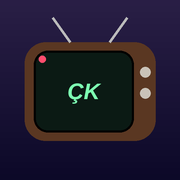
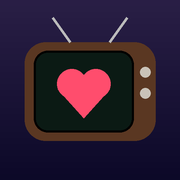
İlayda TV: mektup, bölüm arası notlar, favoriler, özel gün (şifreli içerik), yeni ad ve simge
Claude-Session: https://claude.ai/code/session_0186M41423V9FdX7pZBQzYhW

Changed region(s): [[0.3056, 0.3611, 0.6389, 0.6667], [0.1944, 0.3056, 0.2778, 0.3611]]

diff --git a/index.html b/index.html
@@ -6,10 +6,10 @@
 <meta name="apple-mobile-web-app-capable" content="yes">
 <meta name="mobile-web-app-capable" content="yes">
 <meta name="apple-mobile-web-app-status-bar-style" content="black-translucent">
-<meta name="apple-mobile-web-app-title" content="Çizgi Kanal">
+<meta name="apple-mobile-web-app-title" content="İlayda TV">
 <meta name="theme-color" content="#0b0912">
 <meta name="robots" content="noindex, nofollow">
-<title>Çizgi Kanal</title>
+<title>İlayda TV</title>
 <link rel="manifest" href="manifest.webmanifest">
 <link rel="apple-touch-icon" href="apple-touch-icon.png">
 <link rel="icon" href="icon.png">
@@ -115,13 +115,41 @@ html,body{height:100%;background:#000;color:var(--ink);font-family:'Space Grotes
 .lk-pad button{appearance:none;border:0;height:62px;border-radius:18px;background:#2a2535;color:#fff;font-family:'Bungee',sans-serif;font-size:22px;box-shadow:0 5px 0 #0009;cursor:pointer}
 .lk-pad button:active{transform:translateY(4px);box-shadow:0 1px 0 #0009}
 .lk-pad button.del{background:#3a3546;font-size:16px}
+#start .sig{font-family:'VT323',monospace;font-size:22px;color:var(--amber);margin-top:-8px}
+.cb#fav.on{background:var(--hot);color:#fff}
+.cb#fav.on svg{fill:currentColor}
+.tog{display:flex;align-items:center;gap:8px;font-size:14px;color:var(--ink)}
+.favlist{display:flex;flex-direction:column;gap:6px;max-height:180px;overflow:auto}
+.favlist button{appearance:none;border:0;text-align:left;background:#1f1b29;color:var(--ink);border-radius:10px;padding:8px 10px;font:inherit;font-size:13px;cursor:pointer;display:flex;justify-content:space-between;gap:8px}
+.favlist button span:last-child{color:var(--hot)}
+.ov{position:absolute;inset:0;z-index:45;display:none;align-items:center;justify-content:center;padding:24px;background:radial-gradient(900px 600px at 50% 20%,#3a2350cc,#0b0912ee)}
+.ov.on{display:flex}
+.env{width:min(340px,80vw);aspect-ratio:3/2;position:relative;cursor:pointer;animation:bob 2.4s ease-in-out infinite}
+@keyframes bob{50%{transform:translateY(-8px)}}
+.env-body{position:absolute;inset:0;background:linear-gradient(160deg,#f7e3cf,#e9c9a8);border-radius:14px;box-shadow:0 20px 40px -10px #000a;display:flex;flex-direction:column;align-items:center;justify-content:flex-end;padding-bottom:18%;overflow:hidden}
+.env-flap{position:absolute;left:0;right:0;top:0;height:60%;z-index:2;background:linear-gradient(180deg,#eccfb2,#ddb48d);clip-path:polygon(0 0,100% 0,50% 100%);border-radius:14px 14px 0 0;transform-origin:top;transition:transform .7s}
+.env.open .env-flap{transform:rotateX(180deg)}
+.env-heart{position:absolute;top:44%;left:50%;transform:translate(-50%,-50%);z-index:3;width:54px;height:54px;border-radius:50%;background:var(--hot);color:#fff;display:grid;place-items:center;font-size:26px;box-shadow:0 4px 10px #0006}
+.env-txt{font-family:'VT323',monospace;font-size:22px;color:#7a4a2a}
+.paper{display:none;width:min(560px,92vw);max-height:84vh;overflow:auto;background:#fffaf2;color:#3b2a1e;border-radius:16px;padding:28px 26px;box-shadow:0 30px 60px -20px #000c;font-family:'Space Grotesk',sans-serif;font-size:17px;line-height:1.6;animation:rise .6s ease}
+.paper p{margin:0 0 12px}.paper p:first-child{font-weight:700}.paper p:last-of-type{font-style:italic}
+@keyframes rise{from{transform:translateY(30px);opacity:0}}
+.go.small{font-size:15px;padding:12px 20px;margin-top:8px}
+#card .show.note{font-family:'Space Grotesk',sans-serif;font-weight:700;font-size:clamp(20px,3.6vw,34px);line-height:1.3;max-width:min(720px,86vw);color:#fff;text-shadow:0 0 12px #ff4d6d88}
+#card .lbl.note{color:var(--hot)}
+.sp-box{position:relative;z-index:2;text-align:center;background:#0b0912cc;border:2px solid #ff4d6d66;border-radius:20px;padding:28px 30px;max-width:min(520px,90vw)}
+.sp-title{font-family:'Bungee Shade',cursive;font-size:clamp(40px,9vw,72px);color:#ffd1dc;line-height:1}
+.sp-text{font-size:18px;margin:14px 0 6px;line-height:1.5}
+.confetti{position:absolute;inset:0;overflow:hidden;pointer-events:none}
+.confetti i{position:absolute;top:-20px;width:10px;height:14px;border-radius:2px;animation:fall linear infinite}
+@keyframes fall{to{transform:translateY(110vh) rotate(720deg)}}
 </style>
 </head>
 <body>
 <div id="tv">
   <div id="player-wrap"><div id="player"></div><video id="vid" playsinline preload="auto"></video><iframe id="ext" allow="autoplay; fullscreen; encrypted-media" allowfullscreen></iframe></div>
   <div id="tap"></div>
-  <div class="bug"><i></i>ÇİZGİ KANAL</div>
+  <div class="bug"><i></i>İLAYDA TV</div>
   <div id="lower"><div class="tag">SIRADA</div><div class="txt" id="lowerTxt"></div></div>
 
   <div id="ui">
@@ -129,6 +157,7 @@ html,body{height:100%;background:#000;color:var(--ink);font-family:'Space Grotes
     <button class="cb" id="play" title="Oynat / Duraklat" aria-label="Oynat veya duraklat"><svg viewBox="0 0 24 24" id="playIco"><path d="M7 4v16l13-8z"/></svg></button>
     <div class="np"><div class="a">ŞİMDİ</div><div class="b" id="npShow">—</div><div class="c" id="npNext"></div></div>
     <button class="cb zap" id="zap" aria-label="Sonraki bölüm">ZAP <svg viewBox="0 0 24 24"><path d="M5 4l10 8-10 8V4ZM19 5v14"/></svg></button>
+    <button class="cb" id="fav" title="Favorilere ekle" aria-label="Favorilere ekle"><svg viewBox="0 0 24 24"><path d="M12 20s-7-4.4-7-10a4 4 0 0 1 7-2.6A4 4 0 0 1 19 10c0 5.6-7 10-7 10z"/></svg></button>
     <button class="cb" id="list" title="Diziler" aria-label="Dizileri seç"><svg viewBox="0 0 24 24"><path d="M4 6h16M4 12h16M4 18h10"/></svg></button>
     <button class="cb" id="cc" title="Altyazı" aria-label="Altyazıyı aç veya kapat"><span style="font-family:Bungee;font-size:14px">CC</span></button>
     <button class="cb" id="fs" title="Tam ekran" aria-label="Tam ekran"><svg viewBox="0 0 24 24"><path d="M4 9V4h5M20 9V4h-5M4 15v5h5M20 15v5h-5"/></svg></button>
@@ -139,14 +168,16 @@ html,body{height:100%;background:#000;color:var(--ink);font-family:'Space Grotes
   <div class="scan"></div>
 
   <div id="lock">
-    <div class="lk-tv"><div class="lk-screen"><div class="lk-title">ÇİZGİ<br>KANAL</div><div class="lk-dots" id="lkDots"><i></i><i></i><i></i><i></i></div><div class="lk-msg" id="lkMsg">Şifreyi gir</div></div></div>
+    <div class="lk-tv"><div class="lk-screen"><div class="lk-title">İLAYDA<br>TV</div><div class="lk-dots" id="lkDots"><i></i><i></i><i></i><i></i></div><div class="lk-msg" id="lkMsg">Şifreyi gir</div></div></div>
     <div class="lk-pad" id="lkPad"></div>
   </div>
   <div id="start">
-    <h1>ÇİZGİ<br>KANAL</h1>
-    <p>Seçtiğin çizgi filmlerden rastgele bölümler, bir kanal gibi arka arkaya. Bölüm bitince kısa bir geçişle sıradaki gelir. Ekrana dokununca kumanda açılır.</p>
+    <h1>İLAYDA<br>TV</h1>
+    <p>Çocukluğun bütün çizgi filmleri tek kanalda, rastgele ve arka arkaya. Bölüm bitince sıradaki kendiliğinden gelir; ekrana dokununca kumanda açılır.</p>
+    <p class="sig">Metehan'dan, İlayda'ya ♥</p>
     <button class="go" id="go">▶ YAYINI BAŞLAT</button>
     <button class="link" id="pick">Dizileri seç</button>
+    <button class="link" id="openLetter" style="display:none">💌 Mektubu tekrar aç</button>
   </div>
 
   <aside id="panel" aria-label="Diziler">
@@ -154,6 +185,13 @@ html,body{height:100%;background:#000;color:var(--ink);font-family:'Space Grotes
     <div class="keys" id="keys"></div>
     <div class="prow"><button class="pbtn" id="all">HEPSİ</button><button class="pbtn" id="none">HİÇBİRİ</button></div>
     <p class="hint" id="hint"></p>
+    <section class="arch">
+      <h3>♥ FAVORİLERİMİZ</h3>
+      <p class="hint" id="favState">Beğendiğin bölümde kumandadaki ♥ tuşuna bas, buraya eklensin.</p>
+      <label class="tog"><input type="checkbox" id="favOnly"> Sadece favorilerden oynat</label>
+      <div id="favList" class="favlist"></div>
+      <div class="prow"><button class="pbtn" id="letterBtn">💌 MEKTUP</button></div>
+    </section>
     <section class="arch">
       <h3>KENDİ ARŞİVİM (PC)</h3>
       <p class="hint" id="jfState">Bağlı değil. PC'deki Jellyfin sunucusunun adresini ve API anahtarını gir; klasöre eklediğin her bölüm kanala kendiliğinden gelir.</p>
@@ -172,6 +210,14 @@ html,body{height:100%;background:#000;color:var(--ink);font-family:'Space Grotes
     </section>
   </aside>
   <div class="toast" id="toast"></div>
+  <div id="letter" class="ov">
+    <div class="env" id="env"><div class="env-flap"></div><div class="env-body"><div class="env-heart">♥</div><div class="env-txt">Sana bir not var</div></div></div>
+    <div class="paper" id="paper"><div id="paperTxt"></div><button class="go small" id="letterClose">Kanala geç ▶</button></div>
+  </div>
+  <div id="special" class="ov">
+    <div class="confetti" id="confetti"></div>
+    <div class="sp-box"><div class="sp-title" id="spTitle"></div><div class="sp-text" id="spText"></div><button class="go small" id="spClose">♥</button></div>
+  </div>
 </div>
 
 <script>
@@ -210,13 +256,13 @@ const $=id=>document.getElementById(id);
 (function(){
[1 lines of base64/hex data omitted]
   const lock=$('lock'); let code='';
-  try{ if(localStorage.getItem('cizgi-kanal-ok')===HASH){ lock.remove(); return; } }catch(e){}
+  try{ if(localStorage.getItem('cizgi-kanal-ok')===HASH){ lock.remove(); window.__pin=localStorage.getItem('cizgi-kanal-pin')||''; setTimeout(()=>afterUnlock(false),0); return; } }catch(e){}
   const pad=$('lkPad'); ['1','2','3','4','5','6','7','8','9','','0','⌫'].forEach(k=>{ const b=document.createElement('button'); b.textContent=k; if(!k){ b.style.visibility='hidden'; } if(k==='⌫') b.className='del'; b.onclick=()=>press(k); pad.appendChild(b); });
   const dots=()=>[...$('lkDots').children].forEach((d,i)=>d.classList.toggle('on',i<code.length));
   async function sha(s){ const b=await crypto.subtle.digest('SHA-256',new TextEncoder().encode(s)); return [...new Uint8Array(b)].map(x=>x.toString(16).padStart(2,'0')).join(''); }
   async function press(k){ if(k==='⌫'){ code=code.slice(0,-1); dots(); return; } if(code.length>=4) return; code+=k; dots();
     if(code.length===4){ const ok=(await sha('cizgi-kanal:'+code))===HASH;
-      if(ok){ try{ localStorage.setItem('cizgi-kanal-ok',HASH); }catch(e){} $('lkMsg').textContent='Hoş geldin ♥'; setTimeout(()=>{ lock.classList.add('gone'); setTimeout(()=>lock.remove(),700); },500); }
+      if(ok){ window.__pin=code; try{ localStorage.setItem('cizgi-kanal-ok',HASH); localStorage.setItem('cizgi-kanal-pin',code); }catch(e){} setTimeout(()=>afterUnlock(true),700); $('lkMsg').textContent='Hoş geldin ♥'; setTimeout(()=>{ lock.classList.add('gone'); setTimeout(()=>lock.remove(),700); },500); }
       else { $('lkMsg').textContent='Yanlış şifre'; $('lkDots').classList.add('shake'); setTimeout(()=>{ $('lkDots').classList.remove('shake'); code=''; dots(); $('lkMsg').textContent='Şifreyi gir'; },600); } } }
   document.addEventListener('keydown',e=>{ if(!document.getElementById('lock')) return; if(/^[0-9]$/.test(e.key)) press(e.key); else if(e.key==='Backspace') press('⌫'); });
 })();
@@ -238,7 +284,9 @@ function pickShow(){
   const w=s=>Math.min(s.list.length,14);
   let r=Math.random()*pool.reduce((a,s)=>a+w(s),0); for(const s of pool){ r-=w(s); if(r<=0) return s; } return pool[0];
 }
-function fill(){ while(queue.length<3){ const s=pickShow(); if(!s) break; queue.push({k:s.k,n:s.n,id:draw(s.k)}); } }
+function fill(){ while(queue.length<3){
+    if(favOnly && FAVS.length){ const recent=history.slice(-3).map(x=>x.id).concat(queue.map(x=>x.id)); let pool=FAVS.filter(f=>!recent.includes(f.id)); if(!pool.length) pool=FAVS; const f=pool[Math.random()*pool.length|0]; queue.push({k:f.k,n:f.n,id:f.id}); continue; }
+    const s=pickShow(); if(!s) break; queue.push({k:s.k,n:s.n,id:draw(s.k)}); } }
 function resetQueue(){ queue=[]; fill(); }
 
 /* ---------- YouTube oynatıcı ---------- */
@@ -287,7 +335,7 @@ addEventListener('message',e=>{ if(e.origin!=='https://dzen.ru') return; let m=e
 let ccOn=false; try{ ccOn=localStorage.getItem('cizgi-kanal-cc')==='1'; }catch(e){}
 function applyCC(){ if(!ready) return; try{ if(ccOn){ player.loadModule('captions'); player.setOption('captions','track',{languageCode:'tr'}); } else { try{ player.setOption('captions','track',{}); }catch(e){} player.unloadModule('captions'); player.unloadModule('cc'); } }catch(e){} $('cc').classList.toggle('on',ccOn); }
 function updateNP(){
-  const c=cur(); if(!c) return; fill();
+  const c=cur(); if(!c) return; fill(); try{ updateFavBtn(); }catch(e){}
   $('npShow').textContent=c.n; $('npNext').textContent=queue[0]?('Sırada: '+queue[0].n):'';
   $('lowerTxt').textContent=queue[0]?queue[0].n:'';
 }
@@ -304,12 +352,15 @@ function transition(withCard,label,immediate){
   const c=cur(); fill();
   if(!withCard){ playCurrent(); return; }
   if(immediate){ playCurrent(); }
-  staticOn(); $('cardLbl').textContent=label||'ŞİMDİ'; $('cardShow').textContent=c.n; $('cardNext').textContent=queue[0]?('sonra: '+queue[0].n):'';
+  staticOn(); const note=label?null:pickNote();
+  $('cardLbl').classList.toggle('note',!!note); $('cardShow').classList.toggle('note',!!note);
+  if(note){ $('cardLbl').textContent="METEHAN'DAN NOT"; $('cardShow').textContent=note; $('cardNext').textContent='şimdi: '+c.n; }
+  else { $('cardLbl').textContent=label||'ŞİMDİ'; $('cardShow').textContent=c.n; $('cardNext').textContent=queue[0]?('sonra: '+queue[0].n):''; }
   clearTimeout(tTimer);
   if(!immediate){ try{ if(ready) player.pauseVideo(); }catch(e){} try{ $('vid').pause(); }catch(e){} try{ const ex=$('ext'); if(ex.classList.contains('on')){ ex.src='about:blank'; } }catch(e){} }
   setTimeout(()=>{ $('card').classList.add('on'); },350);
   if(!immediate) tTimer=setTimeout(()=>{ playCurrent(); },700);
-  setTimeout(()=>{ $('card').classList.remove('on'); staticOff(); },2300);
+  setTimeout(()=>{ $('card').classList.remove('on'); staticOff(); }, note?4800:2300);
 }
 function onState(e){
   if(e.data===YT.PlayerState.ENDED){ next(true); }
@@ -355,7 +406,7 @@ function renderKeys(){
   $('keys').innerHTML=SHOWS.map(s=>{ const na=!s.list.length;
     const loc=s.list.filter(isLocal).length; const meta=na?(s.local===undefined&&!s.mine?"YouTube'da yok · DVD'den eklenecek":"Arşivde bölüm yok"):(s.sub?s.sub+' · ':'')+s.list.length+' bölüm'+(loc?' <span class="loc">PC '+loc+'</span>':'');
     return `<button class="key ${na?'na':(on.has(s.k)?'on':'')}" data-k="${s.k}" ${na?'aria-disabled="true"':''}><b>${s.n}</b><small>${meta}</small></button>`; }).join('');
-  $('hint').textContent=on.size+' dizi açık. Değişiklik sıradaki bölümden itibaren geçerli olur.'; renderJF(); renderLinks();
+  $('hint').textContent=on.size+' dizi açık. Değişiklik sıradaki bölümden itibaren geçerli olur.'; renderJF(); renderLinks(); renderFavs();
 }
 $('keys').addEventListener('click',e=>{ const b=e.target.closest('.key'); if(!b||b.classList.contains('na')) return; const k=b.dataset.k; on.has(k)?on.delete(k):on.add(k); save(); renderKeys(); resetQueue(); if(started) updateNP(); });
 $('all').onclick=()=>{ on=new Set(SHOWS.filter(s=>s.list.length).map(s=>s.k)); save(); renderKeys(); resetQueue(); if(started) updateNP(); };
@@ -446,6 +497,45 @@ vid.addEventListener('pause',()=>setPlayIco(false));
 vid.addEventListener('error',()=>{ if(vid.getAttribute('src')) onErr(); });
 
 if('serviceWorker' in navigator){ navigator.serviceWorker.register('sw.js').catch(()=>{}); }
+
+/* ---------- İlayda'ya özel: mektup, notlar, favoriler, özel gün ---------- */
[1 lines of base64/hex data omitted]
+let OZEL=null, noteCount=0, nextNoteAt=4+Math.floor(Math.random()*3);
+async function decryptOzel(pin){ try{ const b=s=>Uint8Array.from(atob(s),c=>c.charCodeAt(0));
+  const base=await crypto.subtle.importKey('raw',new TextEncoder().encode(pin),'PBKDF2',false,['deriveKey']);
+  const key=await crypto.subtle.deriveKey({name:'PBKDF2',salt:b(OZEL_ENC.s),iterations:200000,hash:'SHA-256'},base,{name:'AES-GCM',length:256},false,['decrypt']);
+  const pt=await crypto.subtle.decrypt({name:'AES-GCM',iv:b(OZEL_ENC.i)},key,b(OZEL_ENC.c));
+  return JSON.parse(new TextDecoder().decode(pt)); }catch(e){ return null; } }
+function pickNote(){ if(!OZEL||!OZEL.notlar||!started) return null; noteCount++; if(noteCount<nextNoteAt) return null; noteCount=0; nextNoteAt=5+Math.floor(Math.random()*4);
+  let used=[]; try{ used=JSON.parse(localStorage.getItem('cizgi-kanal-notlar')||'[]'); }catch(e){}
+  let pool=OZEL.notlar.map((n,i)=>i).filter(i=>!used.includes(i)); if(!pool.length){ used=[]; pool=OZEL.notlar.map((n,i)=>i); }
+  const i=pool[Math.random()*pool.length|0]; used.push(i); try{ localStorage.setItem('cizgi-kanal-notlar',JSON.stringify(used)); }catch(e){} return OZEL.notlar[i]; }
+function showLetter(){ if(!OZEL) return; $('paperTxt').innerHTML=OZEL.mektup.map(p=>'<p>'+p.replace(/[<>&]/g,c=>({'<':'&lt;','>':'&gt;','&':'&amp;'}[c]))+'</p>').join('');
+  $('env').classList.remove('open'); $('env').style.display=''; $('paper').style.display='none'; $('letter').classList.add('on'); }
+$('env').onclick=()=>{ $('env').classList.add('open'); setTimeout(()=>{ $('env').style.display='none'; $('paper').style.display='block'; },700); };
+$('letterClose').onclick=()=>{ $('letter').classList.remove('on'); try{ localStorage.setItem('cizgi-kanal-mektup','1'); }catch(e){} maybeSpecial(); };
+$('letterBtn').onclick=()=>{ closePanel(); showLetter(); };
+$('openLetter').onclick=()=>showLetter();
+function maybeSpecial(){ const d=new Date(); if(!(d.getMonth()===4&&d.getDate()===22)||!OZEL) return; const key='cizgi-kanal-ozelgun-'+d.getFullYear(); try{ if(sessionStorage.getItem(key)) return; sessionStorage.setItem(key,'1'); }catch(e){}
+  $('spTitle').textContent=OZEL.ozelGun.baslik; $('spText').textContent=OZEL.ozelGun.metin;
+  const cf=$('confetti'); cf.innerHTML=''; const cols=['#ff4d6d','#ffcf5a','#7dffb2','#8fb8ff','#ffd1dc']; for(let i=0;i<60;i++){ const e=document.createElement('i'); e.style.left=Math.random()*100+'%'; e.style.background=cols[i%cols.length]; e.style.animationDuration=(3+Math.random()*4)+'s'; e.style.animationDelay=(-Math.random()*6)+'s'; cf.appendChild(e); }
+  $('special').classList.add('on'); }
+$('spClose').onclick=()=>$('special').classList.remove('on');
+async function afterUnlock(first){ OZEL=await decryptOzel(window.__pin||''); if(!OZEL) return; $('openLetter').style.display='';
+  let seen=false; try{ seen=localStorage.getItem('cizgi-kanal-mektup')==='1'; }catch(e){}
+  if(!seen) showLetter(); else maybeSpecial(); }
+
+let FAVS=[]; try{ FAVS=JSON.parse(localStorage.getItem('cizgi-kanal-fav')||'[]'); }catch(e){}
+let favOnly=false; try{ favOnly=localStorage.getItem('cizgi-kanal-favonly')==='1'; }catch(e){}
+const saveFav=()=>{ try{ localStorage.setItem('cizgi-kanal-fav',JSON.stringify(FAVS)); }catch(e){} };
+function curTitle(c){ if(typeof c.id==='string'&&!isExt(c.id)){ try{ const t=player.getVideoData().title; if(t) return t.split('|').map(s=>s.trim()).filter(s=>s&&!/cartoon network|tam bölüm|@/i.test(s)).slice(0,2).join(' · ')||t; }catch(e){} } return c.n+' bölümü'; }
+function updateFavBtn(){ const c=cur(); $('fav').classList.toggle('on', !!(c&&FAVS.some(f=>f.id===c.id))); }
+$('fav').onclick=()=>{ const c=cur(); if(!c) return; const i=FAVS.findIndex(f=>f.id===c.id); if(i>=0){ FAVS.splice(i,1); toast('Favorilerden çıkarıldı'); } else { FAVS.push({k:c.k,n:c.n,id:c.id,t:curTitle(c)}); toast('♥ Favorilere eklendi'); } saveFav(); updateFavBtn(); renderFavs(); };
+function renderFavs(){ const l=$('favList'); if(!l) return; $('favOnly').checked=favOnly;
+  $('favState').textContent=FAVS.length?`${FAVS.length} favori bölüm.`:'Beğendiğin bölümde kumandadaki ♥ tuşuna bas, buraya eklensin.';
+  l.innerHTML=FAVS.map((f,i)=>`<button data-i="${i}"><span>${(f.t||f.n).replace(/[<>&]/g,'')}</span><span>♥</span></button>`).join(''); }
+$('favList').addEventListener('click',e=>{ const b=e.target.closest('button'); if(!b) return; const f=FAVS[+b.dataset.i]; if(!f) return; closePanel(); if(!started){ $('start').style.display='none'; started=true; } history.push({k:f.k,n:f.n,id:f.id}); pos=history.length-1; transition(true,'FAVORİ',true); });
+$('favOnly').onchange=e=>{ favOnly=e.target.checked; try{ localStorage.setItem('cizgi-kanal-favonly',favOnly?'1':'0'); }catch(_){} if(favOnly&&!FAVS.length){ toast('Önce birkaç bölümü ♥ ile ekle'); } resetQueue(); if(started) updateNP(); };
 
 function toast(t){ const el=$('toast'); el.textContent=t; el.classList.add('on'); clearTimeout(el._t); el._t=setTimeout(()=>el.classList.remove('on'),2200); }
 </script>

diff --git a/sw.js b/sw.js
@@ -1,5 +1,5 @@
 // Çizgi Kanal: uygulama kabuğunu önbelleğe alır; internet yoksa da açılır
-const C='cizgi-kanal-v3';
+const C='cizgi-kanal-v4';
 const SHELL=['./','index.html','manifest.webmanifest','icon.png','icon-192.png','apple-touch-icon.png'];
 self.addEventListener('install',e=>{ e.waitUntil(caches.open(C).then(c=>c.addAll(SHELL)).then(()=>self.skipWaiting())); });
 self.addEventListener('activate',e=>{ e.waitUntil(caches.keys().then(ks=>Promise.all(ks.filter(k=>k!==C).map(k=>caches.delete(k)))).then(()=>self.clients.claim())); });
